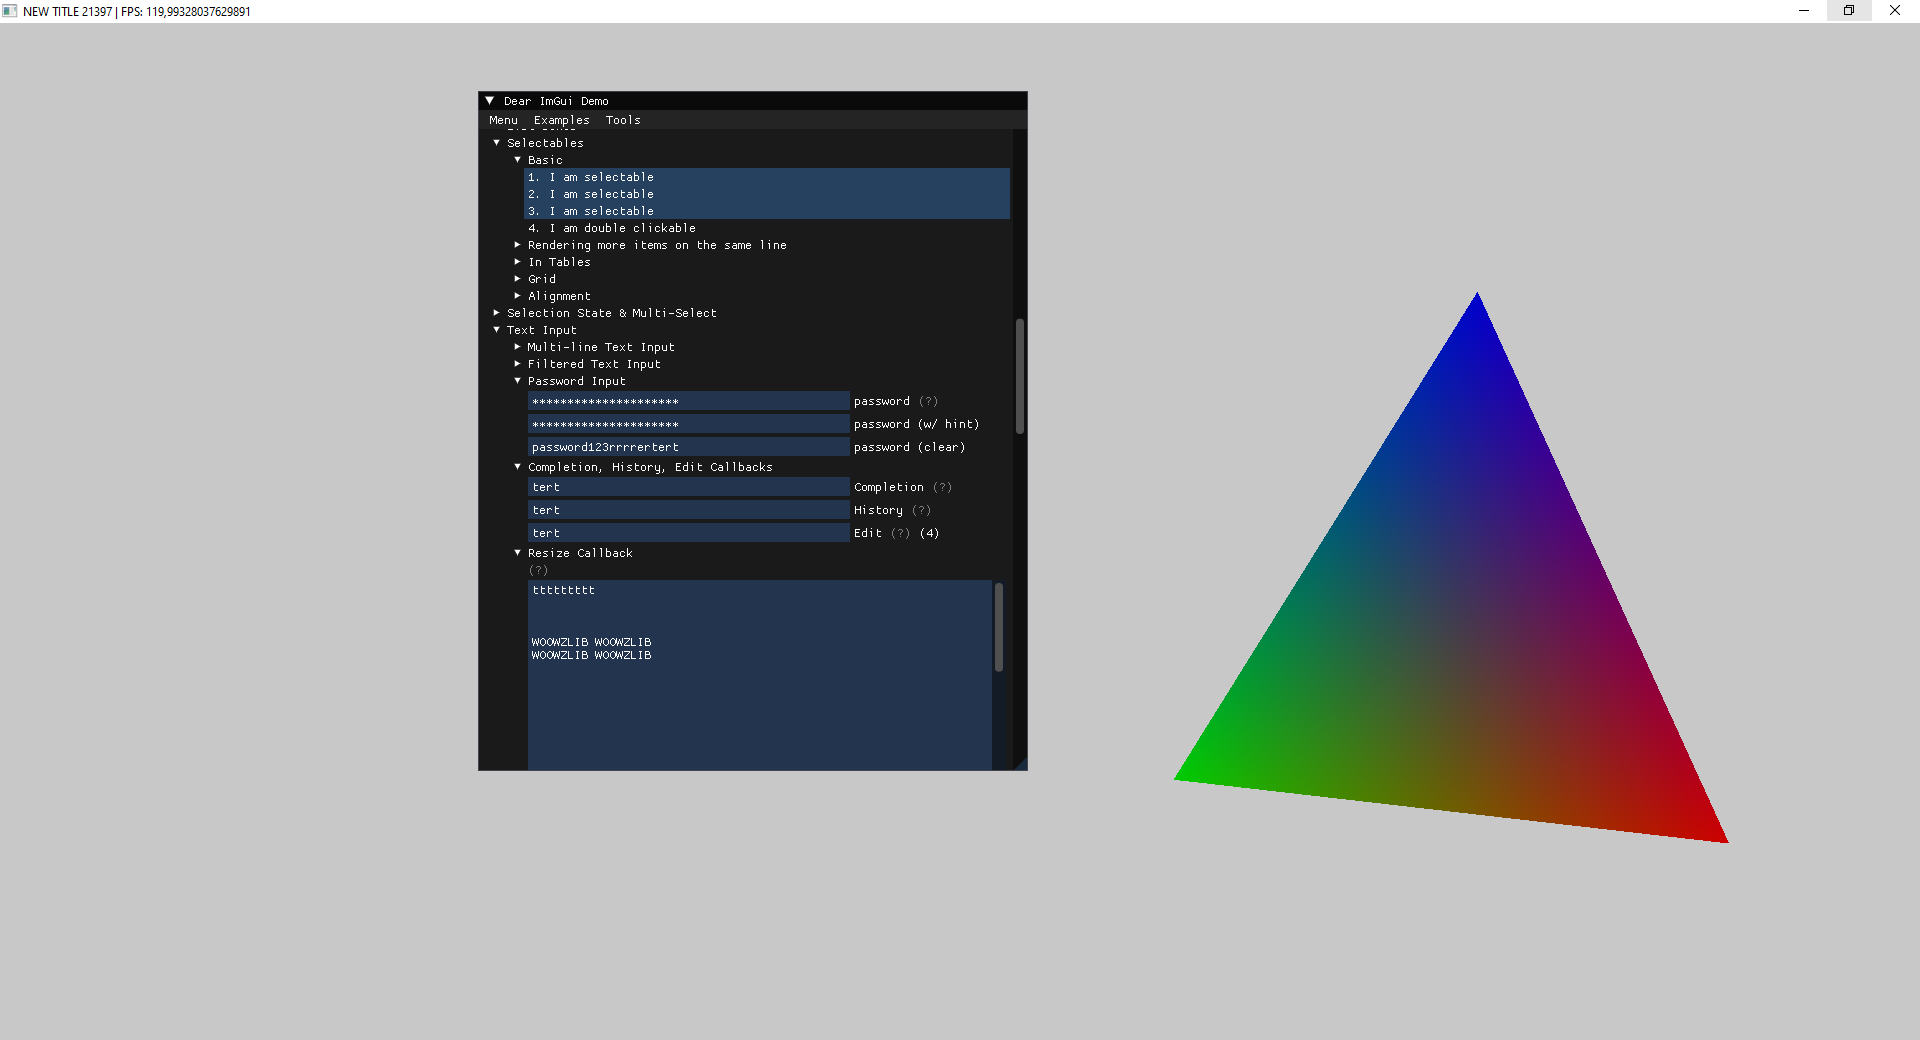
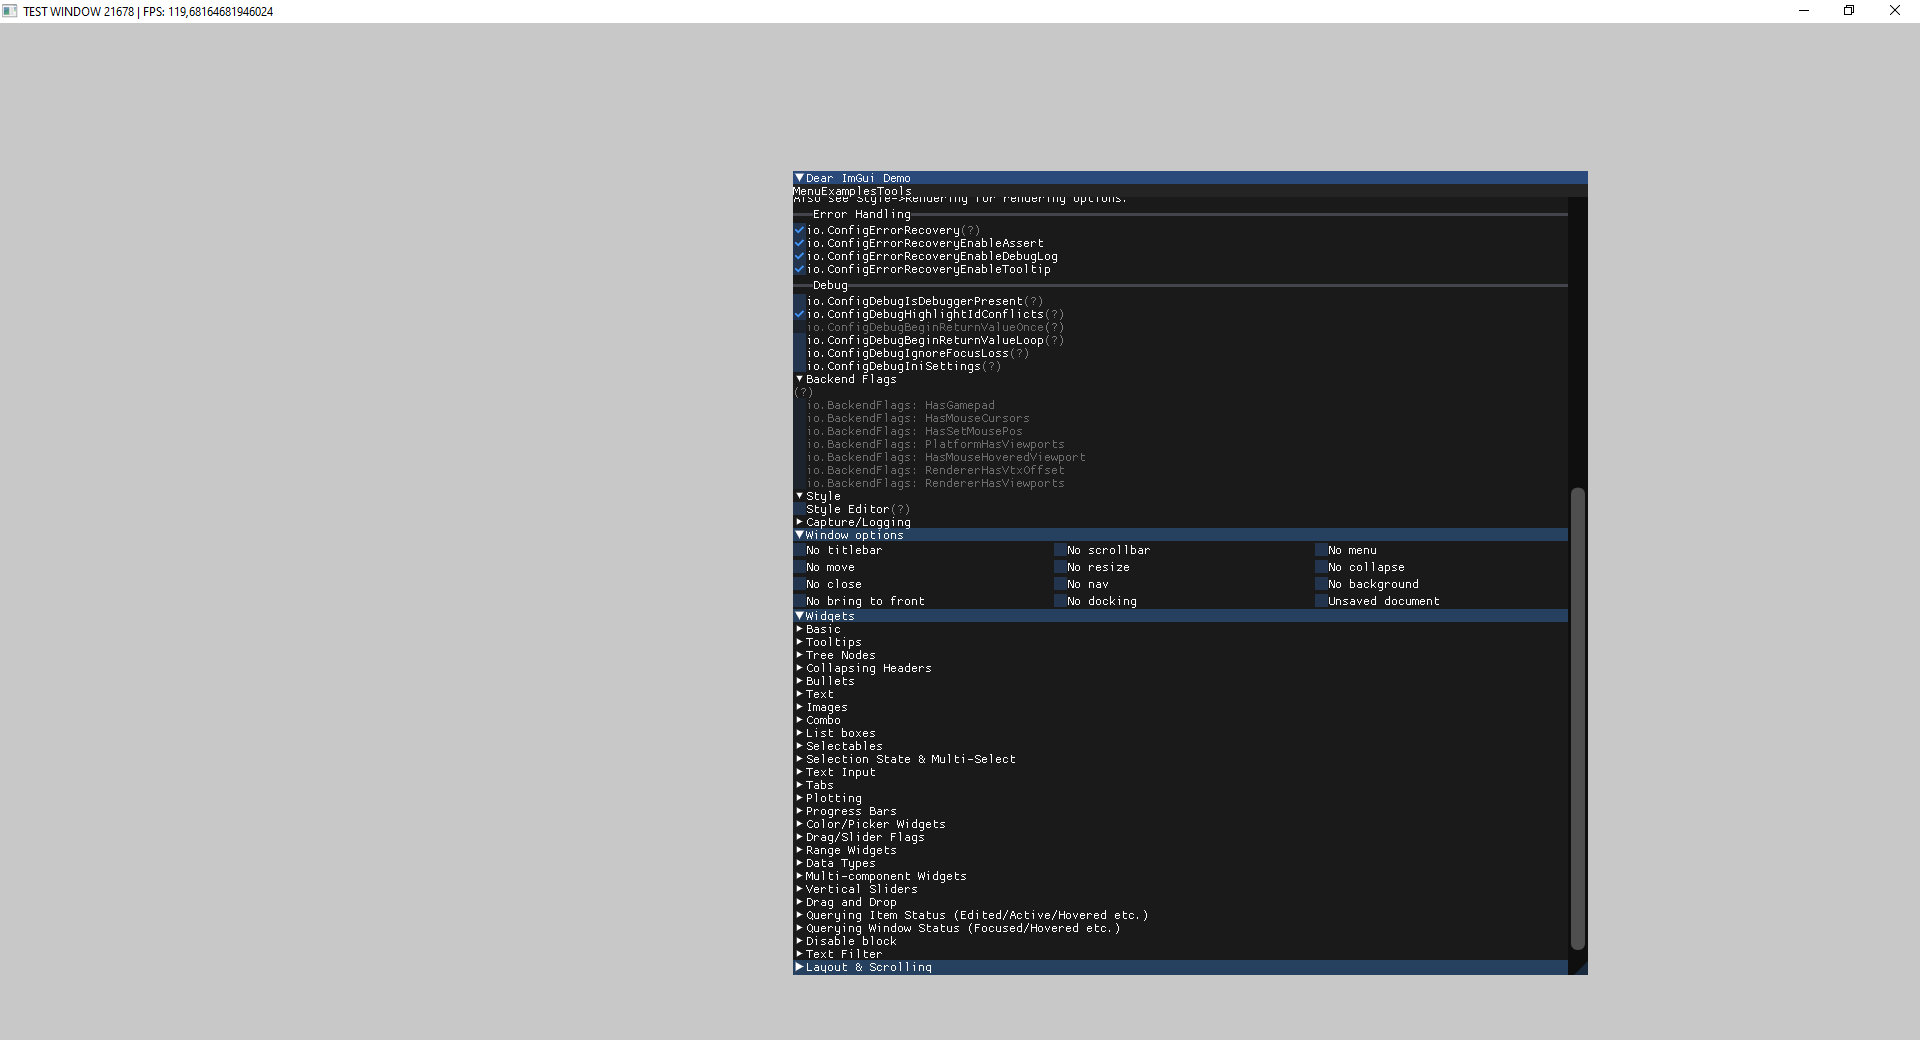
Program.cs разделён на другие классы

diff --git a/WoowzEngine/WoowzEngineEditor/WEE/Cycle.cs b/WoowzEngine/WoowzEngineEditor/WEE/Cycle.cs
@@ -1,0 +1,55 @@
+using WEEO;
+using WLO;
+
+namespace WEE;
+
+public static class Cycle{
+    public static void Start(){
+        while(!WEE.Window.MainWindow.IsClosed){
+            CycleFast();
+        }
+    }
+    
+    private static DeltaTimeInfo? __DTI = null;
+    public static void CycleFast(){
+        try{
+            WEE.Window.MainWindow.PollEvents();
+            
+            if(WL.Thread.LimitByFPS(120, ref __DTI)){
+                DTI = __DTI!.Value;
+                CycleFixed();
+            }
+        }catch(Exception e){
+            throw new ExceptionWEE("Произошла ошибка в главном цикле!", e);
+        }
+    }
+
+    public static void CycleFixed(){
+        try{
+            WEE.Window.MainWindow.PollEvents2();
+
+            DT = (float)DTI.DT;
+
+            TotalFrames++;
+            Time += DT;
+
+            WEE.Window.MainWindow.Title = $"TEST WINDOW {TotalFrames} | FPS: {DTI.FPS}";
+            
+            WEE.Interface.Update();
+            
+            WEE.Render.MainRender();
+            
+            WEE.Window.MainWindow.SwapBuffers();
+        }catch(Exception e){
+            throw new ExceptionWEE("Произошла ошибка в зафиксированном цикле!", e);
+        }
+    }
+    
+    // ----------------------------------------------------------------------
+
+    public static DeltaTimeInfo DTI;
+    public static float         DT;
+    
+    public static int           TotalFrames;
+    public static float         Time;
+}

diff --git a/WoowzEngine/WoowzEngineEditor/WEE/Window.cs b/WoowzEngine/WoowzEngineEditor/WEE/Window.cs
@@ -1,0 +1,29 @@
+using WLO.Math;
+
+namespace WEE;
+
+public static class Window{
+    public static void Start(){
+        WL.GLFW.Start();
+
+        MainWindow = new WLO.Window.GLFW(new Vector2I(800, 600), "WOOWZENGINE MAINWINDOW");
+    }
+    
+    public static void Stop(){
+        if(MainWindow != null!){ MainWindow.Close(); }
+        WL.GLFW.Stop();
+    }
+
+    public static void ConnectEvents(){
+        MainWindow.Mouse.OnMove += (Position, Delta) => WEE.Interface.ImGUI.MousePosition(Position);
+        MainWindow.Mouse.OnScroll += Delta => WEE.Interface.ImGUI.MouseScroll(Delta);
+        MainWindow.Mouse.OnButton += (Button, Down) => WEE.Interface.ImGUI.MouseButton(Button, Down);
+
+        MainWindow.Keyboard.OnKey += (Key, Down) => WEE.Interface.ImGUI.KeyboardKey(Key, Down);
+        MainWindow.Keyboard.OnChar += Char => WEE.Interface.ImGUI.KeyboardChar(Char);
+    }
+    
+    // ----------------------------------------------------------------------
+    
+    public static WLO.Window.GLFW MainWindow;
+}

diff --git a/WoowzEngine/WoowzEngineEditor/WEE/Render.cs b/WoowzEngine/WoowzEngineEditor/WEE/Render.cs
@@ -1,0 +1,33 @@
+using WEEO;
+using WLO.Math;
+
+namespace WEE;
+
+public static class Render{
+    public static void Start(){
+        WE.Render.Start(WEE.Window.MainWindow.GetProcAddress, new WE.Render.StartParameters{
+            DebugLogger = true,
+            UseThisLogger = WL.Logger.CurrentLogger
+        });
+    }
+    
+    public static void Stop(){
+        WE.Render.Stop();
+    }
+
+    public static void MainRender(){
+        try{
+            WE.Render.API.CRenderView.Viewport = WEE.Window.MainWindow.Size;
+            
+            WE.Render.API.FrameStart();
+            
+                WE.Render.API.Clear(new Color4B(200, 200, 200));
+            
+                WEE.Interface.Render();
+                
+            WE.Render.API.FrameStop();
+        }catch(Exception e){
+            throw new ExceptionWEE("Произошла ошибка в главном рендере!", e);
+        }
+    }
+}

diff --git a/WoowzEngine/WoowzEngineEditor/WEE/Main.cs b/WoowzEngine/WoowzEngineEditor/WEE/Main.cs
@@ -1,0 +1,30 @@
+using WEEO;
+
+namespace WEE;
+
+public static class Main{
+    public static void Start(string[] Args){
+        try{
+            WEE.Window.Start();
+            WEE.Render.Start();
+            WEE.Interface.Start();
+            
+            WEE.Window.ConnectEvents();
+            WEE.Cycle.Start();
+        }catch(Exception e){
+            throw new ExceptionWEE("Произошла ошибка при запуске Main!", e);
+        }
+    }
+
+    public static int Stop(){
+        try{
+            WEE.Interface.Stop();
+            WEE.Render.Stop();
+            WEE.Window.Stop();
+
+            return 0;
+        }catch(Exception e){
+            throw new ExceptionWEE("Произошла ошибка при остановке Main!", e);
+        }
+    }
+}

diff --git a/WoowzEngine/WoowzEngineRender/WE/Render.cs b/WoowzEngine/WoowzEngineRender/WE/Render.cs
@@ -47,9 +47,9 @@ public static class Render{
         }
     }
 
-    public static void Stop(){
+    public static bool Stop(){
         try{
-            if(!IsStarted){ throw new ExceptionWL("Рендер не был даже запущен!"); }
+            if(!IsStarted){ return false; }
             
             Log(LogType_Initialization, "Остановка WoowzEngineRender...");
 
@@ -58,6 +58,7 @@ public static class Render{
             Log(LogType_Initialization, "WoowzEngineRender остановлен!");
             
             IsStarted = false;
+            return true;
         }catch(Exception e){
             throw new ExceptionWL("Произошла ошибка при остановке WoowzEngineRender!", e);
         }

diff --git a/WoowzEngine/WoowzEngineEditor/WEE/Interface.cs b/WoowzEngine/WoowzEngineEditor/WEE/Interface.cs
@@ -1,0 +1,27 @@
+using WLO.Interface;
+
+namespace WEE;
+
+public static class Interface{
+    public static void Start(){
+        ImGUI = new GLImGUI(WE.Render.API, true);
+    }
+    
+    public static void Stop(){
+        if(ImGUI != null!){ ImGUI.Stop(); }
+    }
+    
+    // ----------------------------------------------------------------------
+
+    public static GLImGUI ImGUI;
+
+    public static void Update(){
+        ImGUI.FrameStart(WEE.Cycle.DT, WEE.Window.MainWindow.Size);
+        
+            ImGuiNET.ImGui.ShowDemoWindow();
+        
+        ImGUI.FrameEnd();
+    }
+
+    public static void Render() => ImGUI.Render();
+}

diff --git a/WoowzEngine/WoowzEngineEditor/WEEO/ExceptionWEE.cs b/WoowzEngine/WoowzEngineEditor/WEEO/ExceptionWEE.cs
@@ -1,0 +1,7 @@
+namespace WEEO;
+
+public class ExceptionWEE : Exception{
+    public ExceptionWEE(                                           ) : base("Не указана ошибка!"    ){}
+    public ExceptionWEE(string? Message                            ) : base(Message                 ){}
+    public ExceptionWEE(string? Message, Exception? ParentException) : base(Message, ParentException){}
+}

diff --git a/WoowzEngine/WoowzEngineEditor/Bootstrap.cs b/WoowzEngine/WoowzEngineEditor/Bootstrap.cs
@@ -1,0 +1,12 @@
+using WEEO;
+
+public static class Bootstrap{
+    public static int Main(string[] Args){
+        try{
+            WEE.Main.Start(Args);
+            return WEE.Main.Stop();
+        }catch(Exception e){
+            throw new ExceptionWEE("Произошла ошибка в Bootstrap!", e);
+        }
+    }
+}
